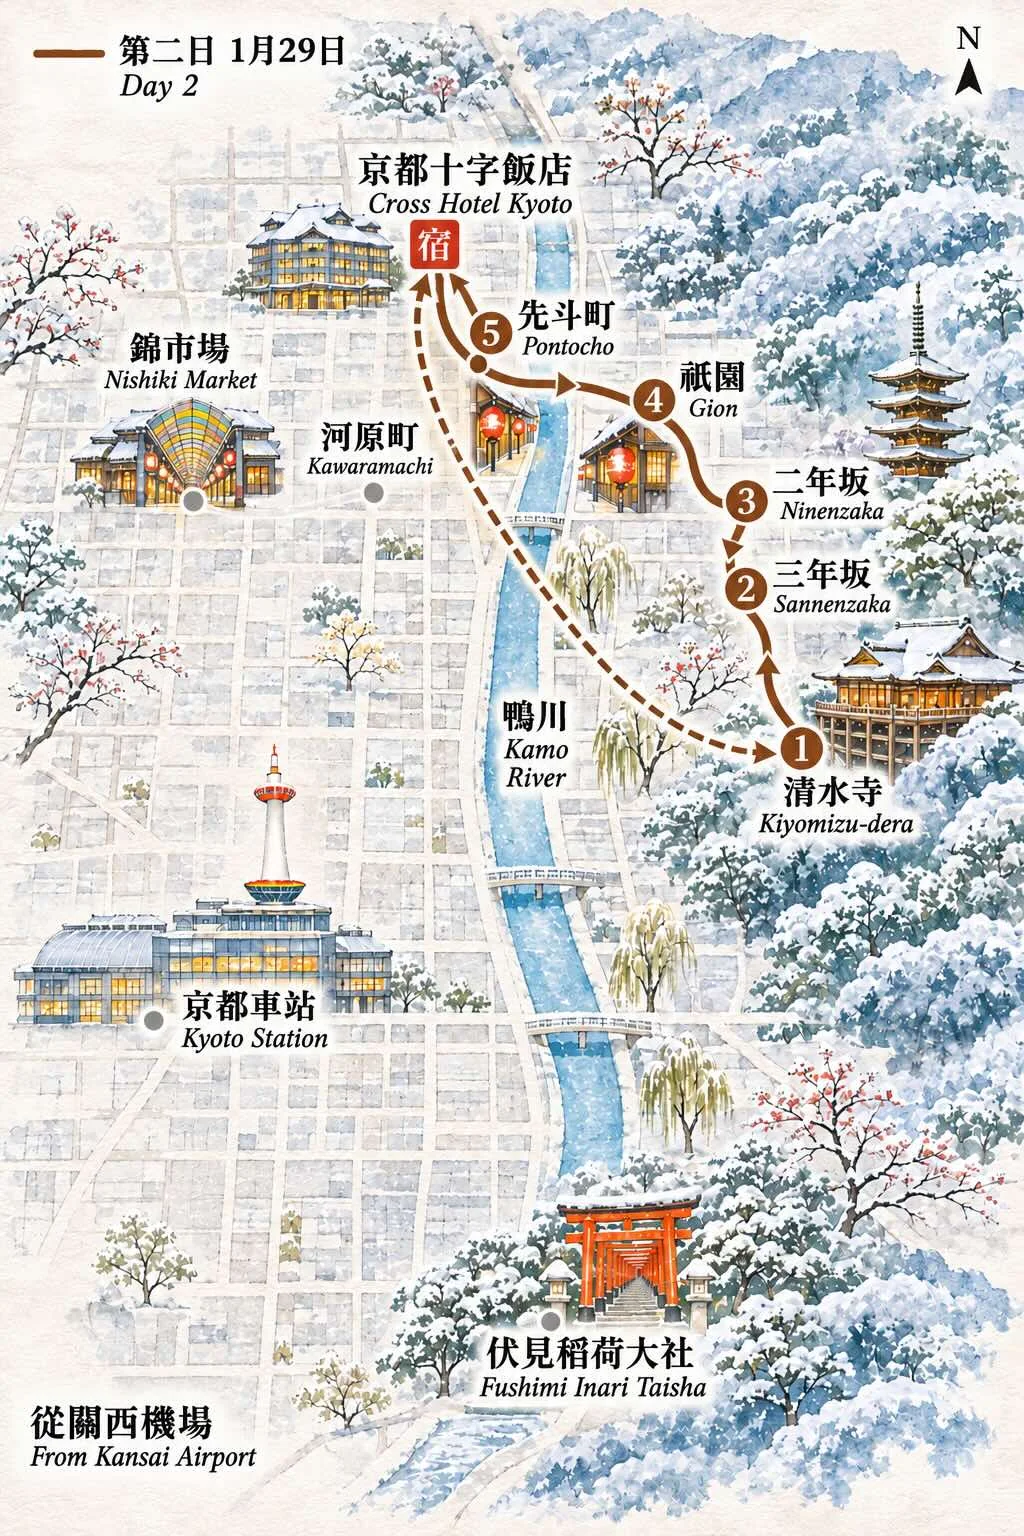
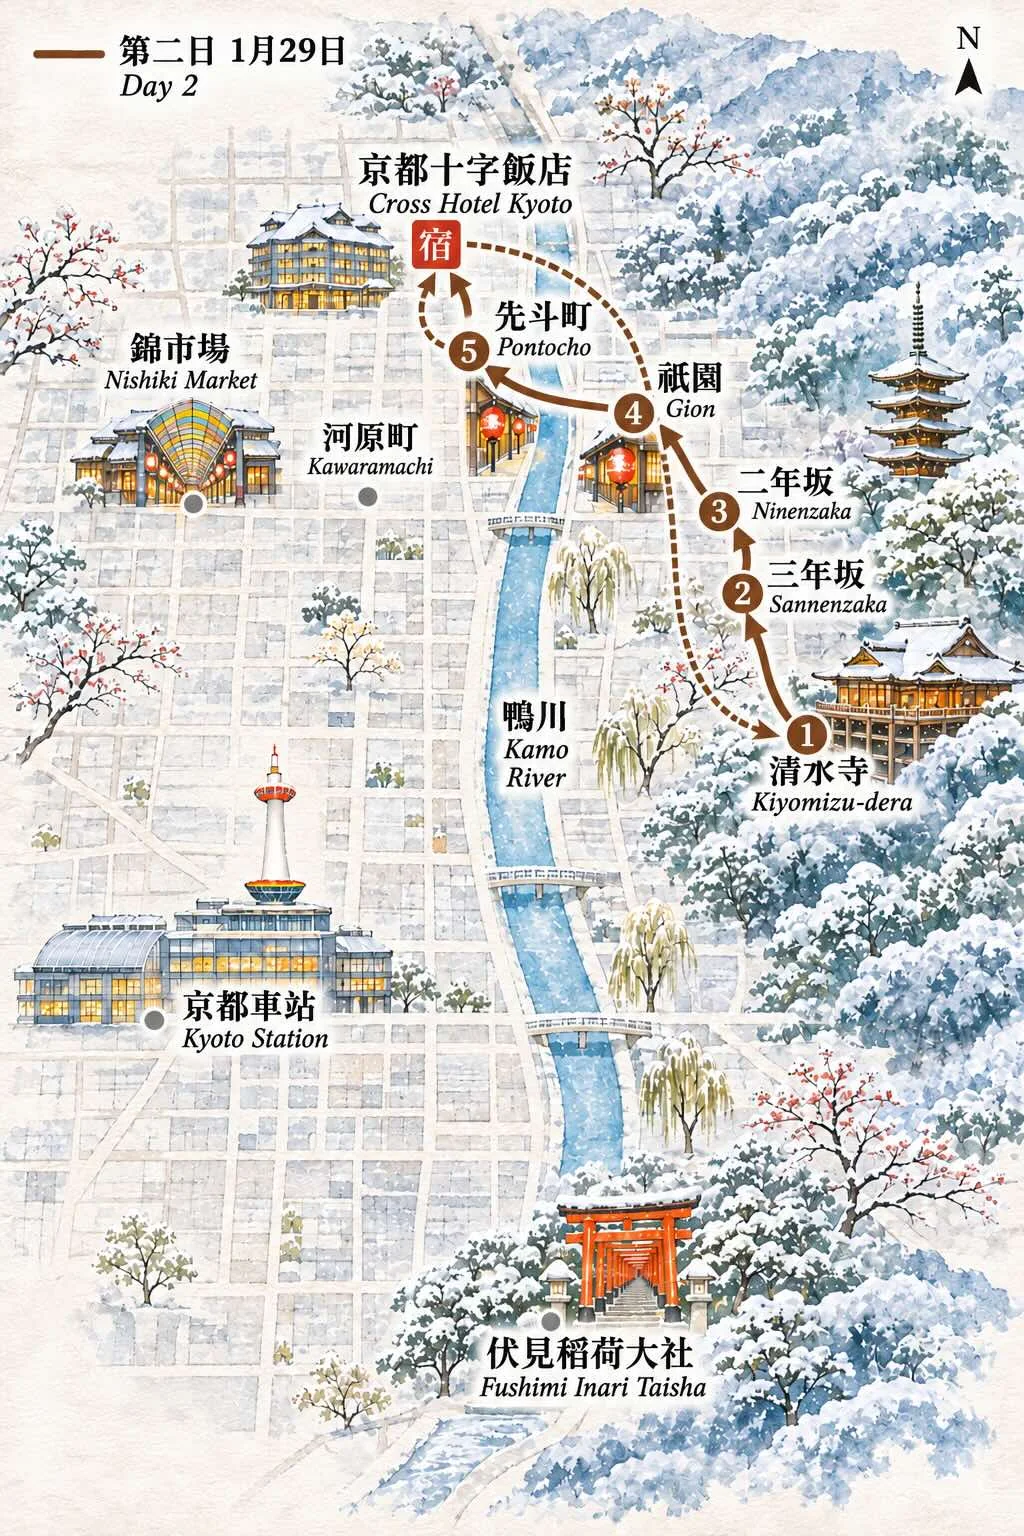
第二日路線圖：箭頭改為 1→5 正確方向
Claude-Session: https://claude.ai/code/session_01JvJKWDnmpNQPWiVG7U7TXY

diff --git a/assets/js/data.js b/assets/js/data.js
@@ -16,7 +16,7 @@ window.TRIP = {
     { day: 2, photo: 'map-day2', t: '第二日路線：清水寺、三年坂、二年坂、祇園、先斗町' },
     { day: 3, photo: 'map-day3', t: '第三日路線：伏見稻荷大社、京都車站、關西機場' }
   ],
-  photoVer: { 'map-day1': 2, 'map-day2': 2 },
+  photoVer: { 'map-day1': 2, 'map-day2': 3 },
   photoNote: '照片與路線地圖為 AI 生成的情境示意圖，不是實地拍攝；京都一月底不一定會下雪。',
 
   hotel: {
